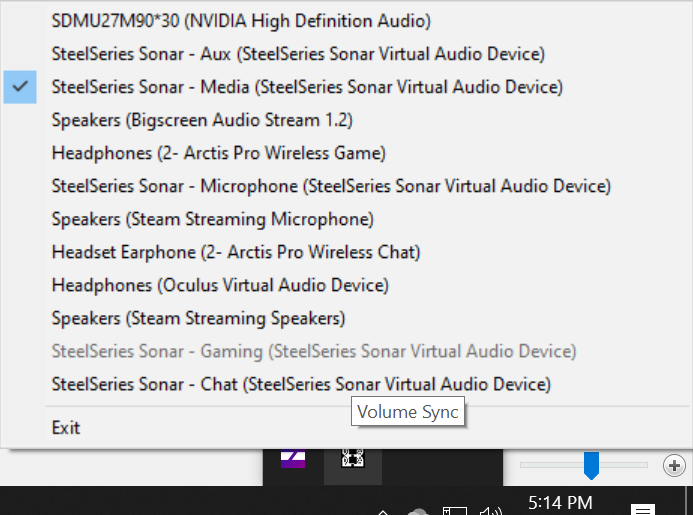
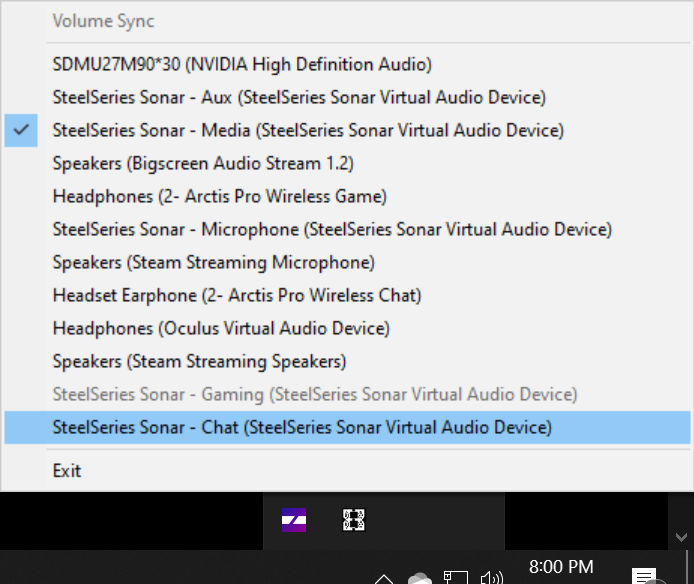
Prevented multiple copies running at once; changed config to be in a file

diff --git a/Config.cpp b/Config.cpp
@@ -1,62 +1,73 @@
 #include "Config.h"
 
-bool WriteSyncDevices(
-    const std::vector<std::wstring>& data,
-    const std::wstring& subKey,
-    const std::wstring& valueName
-) {
-    HKEY hKey;
-    if (RegCreateKeyExW(HKEY_CURRENT_USER, subKey.c_str(), 0, NULL, REG_OPTION_NON_VOLATILE, KEY_ALL_ACCESS, NULL, &hKey, NULL) != ERROR_SUCCESS) {
+#include <windows.h>
+#include <fstream>
+#include <string>
+#include <vector>
+#include <KnownFolders.h>
+#include <ShlObj.h>
+
+const std::wstring filename = L"SyncDevices.txt";
+const std::wstring subDir = L"AudioSync";
+
+bool CreateDirectoryIfNotExist(const std::wstring& path) {
+    DWORD dwAttrib = GetFileAttributesW(path.c_str());
+
+    if (dwAttrib != INVALID_FILE_ATTRIBUTES &&
+        (dwAttrib & FILE_ATTRIBUTE_DIRECTORY)) {
+        return true;
+    }
+
+    return CreateDirectoryW(path.c_str(), NULL);
+}
+
+bool WriteSyncDevices(const std::vector<std::wstring>& data) {
+    PWSTR path = NULL;
+    if (SHGetKnownFolderPath(FOLDERID_LocalAppData, 0, NULL, &path) != S_OK) {
         return false;
     }
 
-    for (size_t i = 0; i < data.size(); ++i) {
-        if (RegSetValueExW(hKey, (valueName + std::to_wstring(i)).c_str(), 0, REG_SZ, (BYTE*)data[i].c_str(), (DWORD)((data[i].size() + 1) * sizeof(wchar_t))) != ERROR_SUCCESS) {
-            RegCloseKey(hKey);
-            return false;
-        }
+    std::wstring fullPath(path);
+    fullPath += L"\\" + subDir;
+    CoTaskMemFree(path);
+
+    if (!CreateDirectoryIfNotExist(fullPath)) {
+        return false;
     }
 
-    RegCloseKey(hKey);
+    fullPath += L"\\" + filename;
+
+    std::wofstream file(fullPath);
+    if (!file) {
+        return false;
+    }
+
+    for (const auto& str : data) {
+        file << str << L'\n';
+    }
+
     return true;
 }
 
-bool ReadSyncDevices(
-    std::vector<std::wstring>& data,
-    const std::wstring& subKey,
-    const std::wstring& valueName
-) {
-    HKEY hKey;
-    if (RegOpenKeyExW(HKEY_CURRENT_USER, subKey.c_str(), 0, KEY_READ, &hKey) != ERROR_SUCCESS) {
+bool ReadSyncDevices(std::vector<std::wstring>& data) {
+    PWSTR path = NULL;
+    if (SHGetKnownFolderPath(FOLDERID_LocalAppData, 0, NULL, &path) != S_OK) {
         return false;
     }
 
-    DWORD i = 0;
-    wchar_t value[256];
-    DWORD valueSize = sizeof(value);
-    while (RegEnumValueW(hKey, i, value, &valueSize, NULL, NULL, NULL, NULL) == ERROR_SUCCESS) {
-        if (std::wstring(value).substr(0, valueName.size()) == valueName) {
-            DWORD dataSize;
-            if (RegQueryValueExW(hKey, value, NULL, NULL, NULL, &dataSize) != ERROR_SUCCESS) {
-                RegCloseKey(hKey);
-                return false;
-            }
+    std::wstring fullPath(path);
+    fullPath += L"\\" + subDir + L"\\" + filename;
+    CoTaskMemFree(path);
 
-            wchar_t* dataBuffer = new wchar_t[dataSize / sizeof(wchar_t)];
-            if (RegQueryValueExW(hKey, value, NULL, NULL, (BYTE*)dataBuffer, &dataSize) != ERROR_SUCCESS) {
-                delete[] dataBuffer;
-                RegCloseKey(hKey);
-                return false;
-            }
-
-            data.push_back(std::wstring(dataBuffer));
-            delete[] dataBuffer;
-        }
-
-        i++;
-        valueSize = sizeof(value);
+    std::wifstream file(fullPath);
+    if (!file) {
+        return false;
     }
 
-    RegCloseKey(hKey);
+    std::wstring line;
+    while (std::getline(file, line)) {
+        data.push_back(line);
+    }
+
     return true;
 }

diff --git a/main.cpp b/main.cpp
@@ -43,6 +43,9 @@ LRESULT CALLBACK WndProc(HWND hWnd, UINT message, WPARAM wParam, LPARAM lParam) 
                 // Create the menu
                 HMENU hMenu = CreatePopupMenu();
 
+                AppendMenu(hMenu, MF_STRING | MF_GRAYED, 0, TEXT("Volume Sync"));
+                AppendMenu(hMenu, MF_SEPARATOR, ID_TRAY_EXIT, nullptr);
+
                 auto syncedDevices = audio->getSyncedDevices();
                 auto devices = audio->getDevices();
                 for (int i = 0; i < devices.size(); ++i) {
@@ -106,6 +109,15 @@ LRESULT CALLBACK WndProc(HWND hWnd, UINT message, WPARAM wParam, LPARAM lParam) 
 
 // int main() {
 int APIENTRY WinMain(HINSTANCE hInstance, HINSTANCE hPrevInstance, LPSTR lpCmdLine, int nCmdShow) {
+    HANDLE mutex = CreateMutex(NULL, TRUE, "VolumeSync_Service");
+    if (mutex == NULL || GetLastError() == ERROR_ALREADY_EXISTS) {
+        if (mutex) {
+            ReleaseMutex(mutex);
+        }
+        // Another instance is running
+        return 1;
+    }
+
 #ifdef _DEBUG 
     RedirectOutputToFile("log.txt");
 #endif // _DEBUG
@@ -148,5 +160,7 @@ int APIENTRY WinMain(HINSTANCE hInstance, HINSTANCE hPrevInstance, LPSTR lpCmdLi
         DispatchMessage(&msg);
     }
 
+    ReleaseMutex(mutex);
+    CloseHandle(mutex);
     return (int)msg.wParam;
 }

diff --git a/Config.h b/Config.h
@@ -1,20 +1,8 @@
 #pragma once
 
-#include <windows.h>
 #include <string>
 #include <vector>
 
-constexpr wchar_t kRegistryKey[] = L"Software\\AudioSync";
-constexpr wchar_t kRegistryValName[] = L"SyncDevices";
+bool WriteSyncDevices(const std::vector<std::wstring>& data);
 
-bool WriteSyncDevices(
-    const std::vector<std::wstring>& data,
-    const std::wstring& subKey = kRegistryKey,
-    const std::wstring& valueName = kRegistryValName
-);
-
-bool ReadSyncDevices(
-    std::vector<std::wstring>& data,
-    const std::wstring& subKey = kRegistryKey,
-    const std::wstring& valueName = kRegistryValName
-);
+bool ReadSyncDevices(std::vector<std::wstring>& data);
